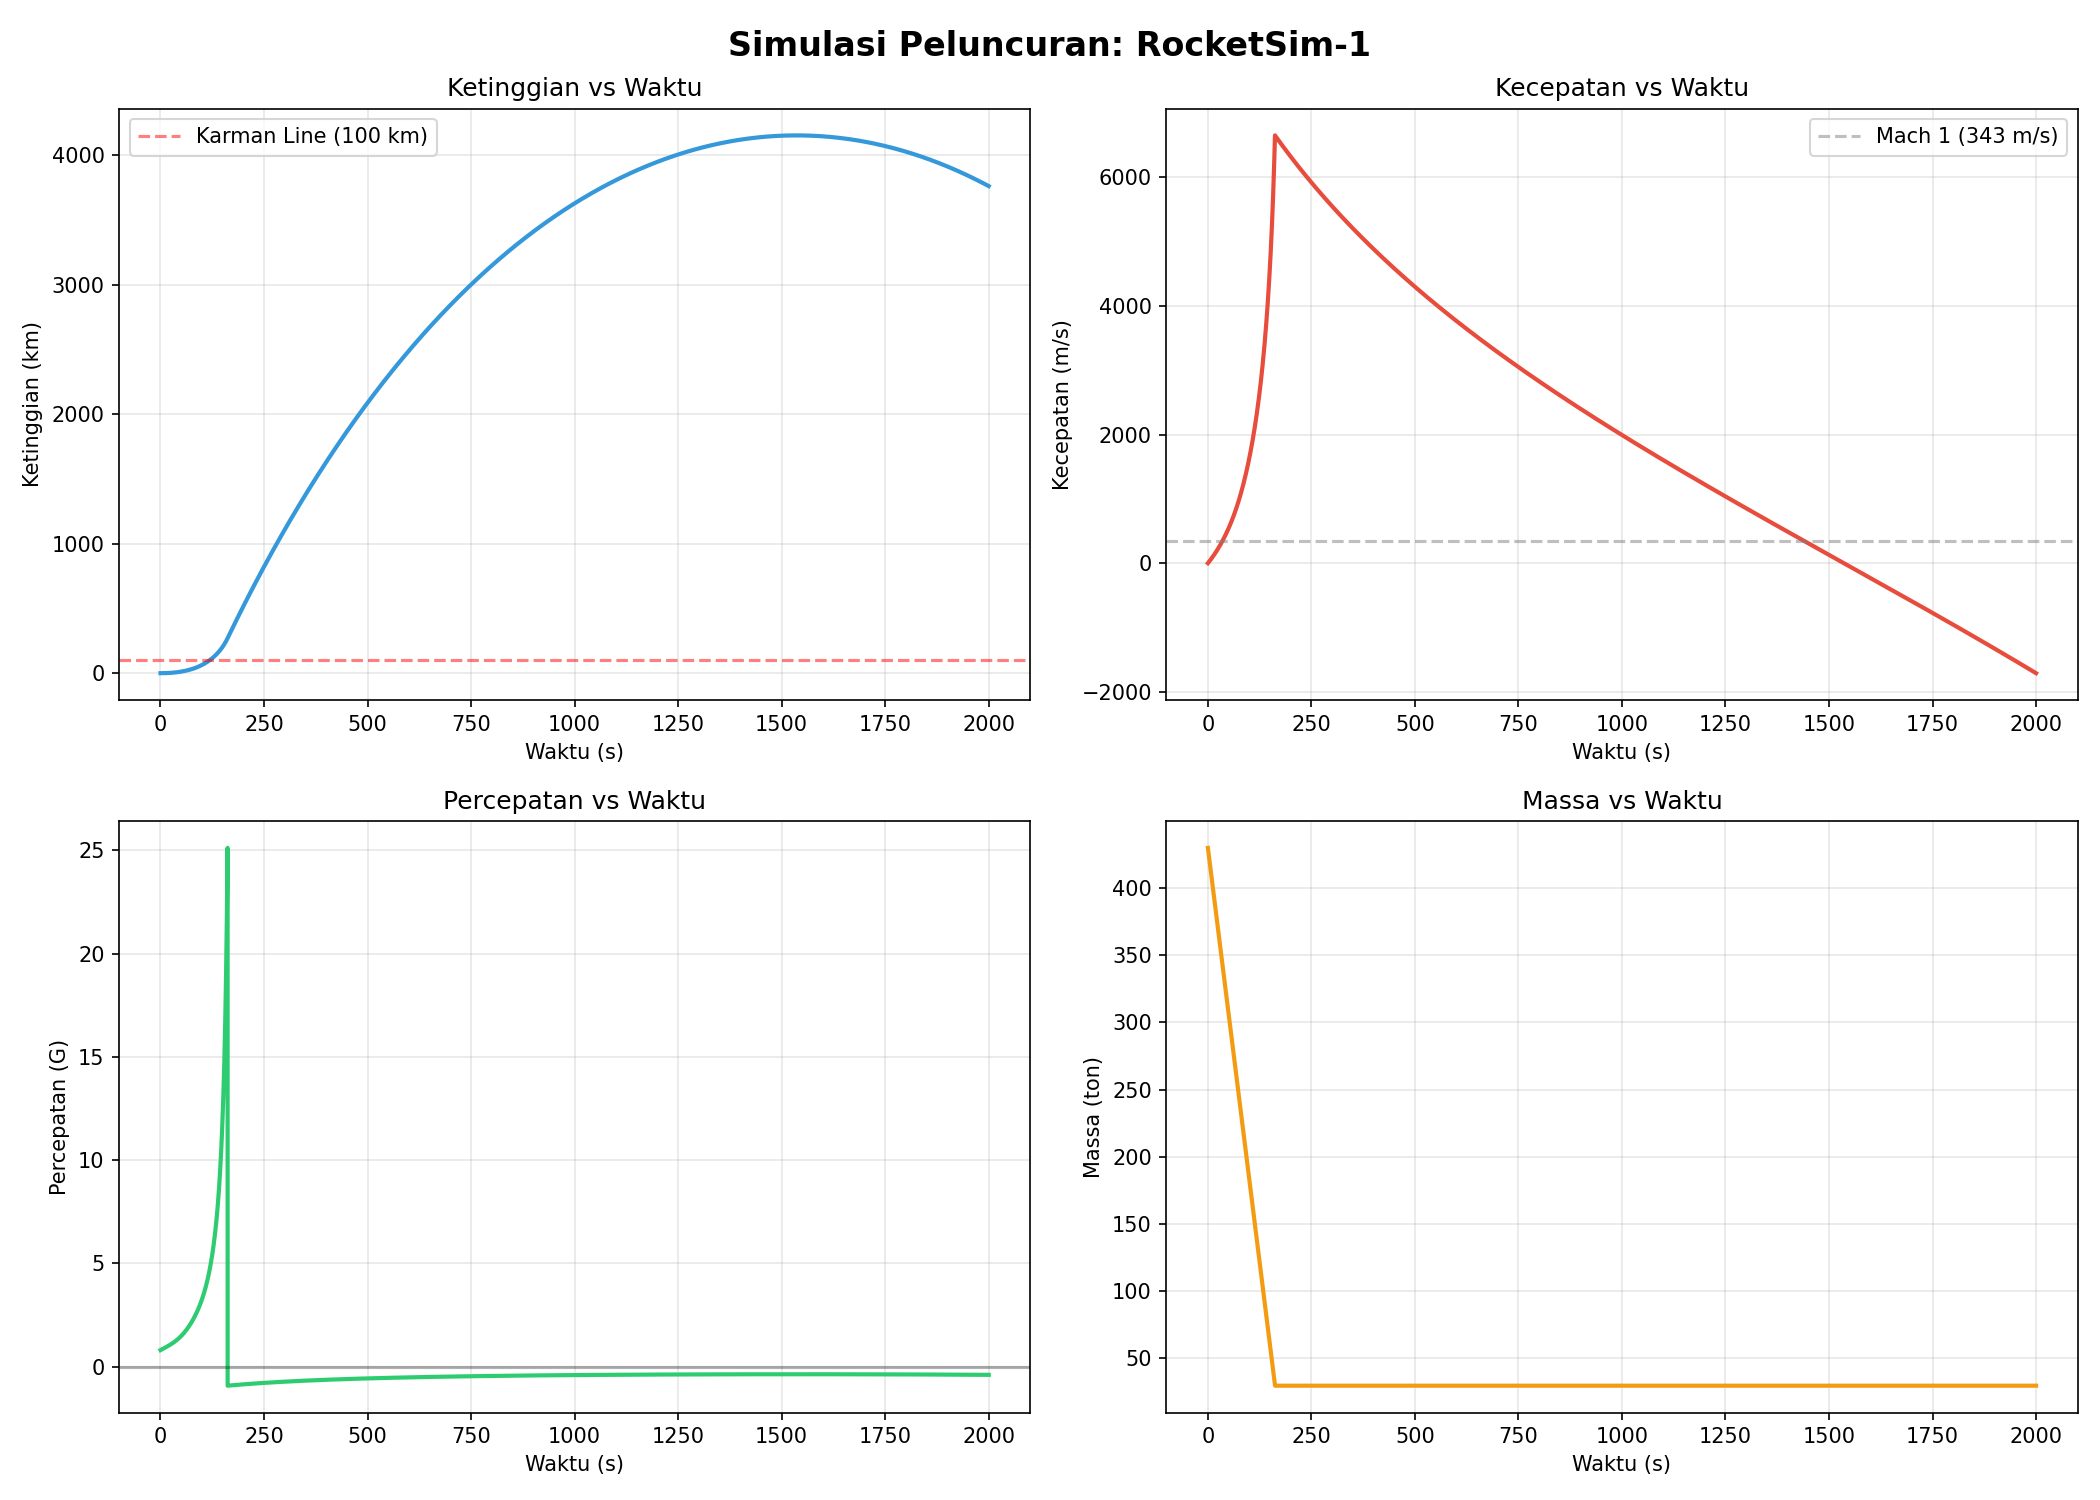
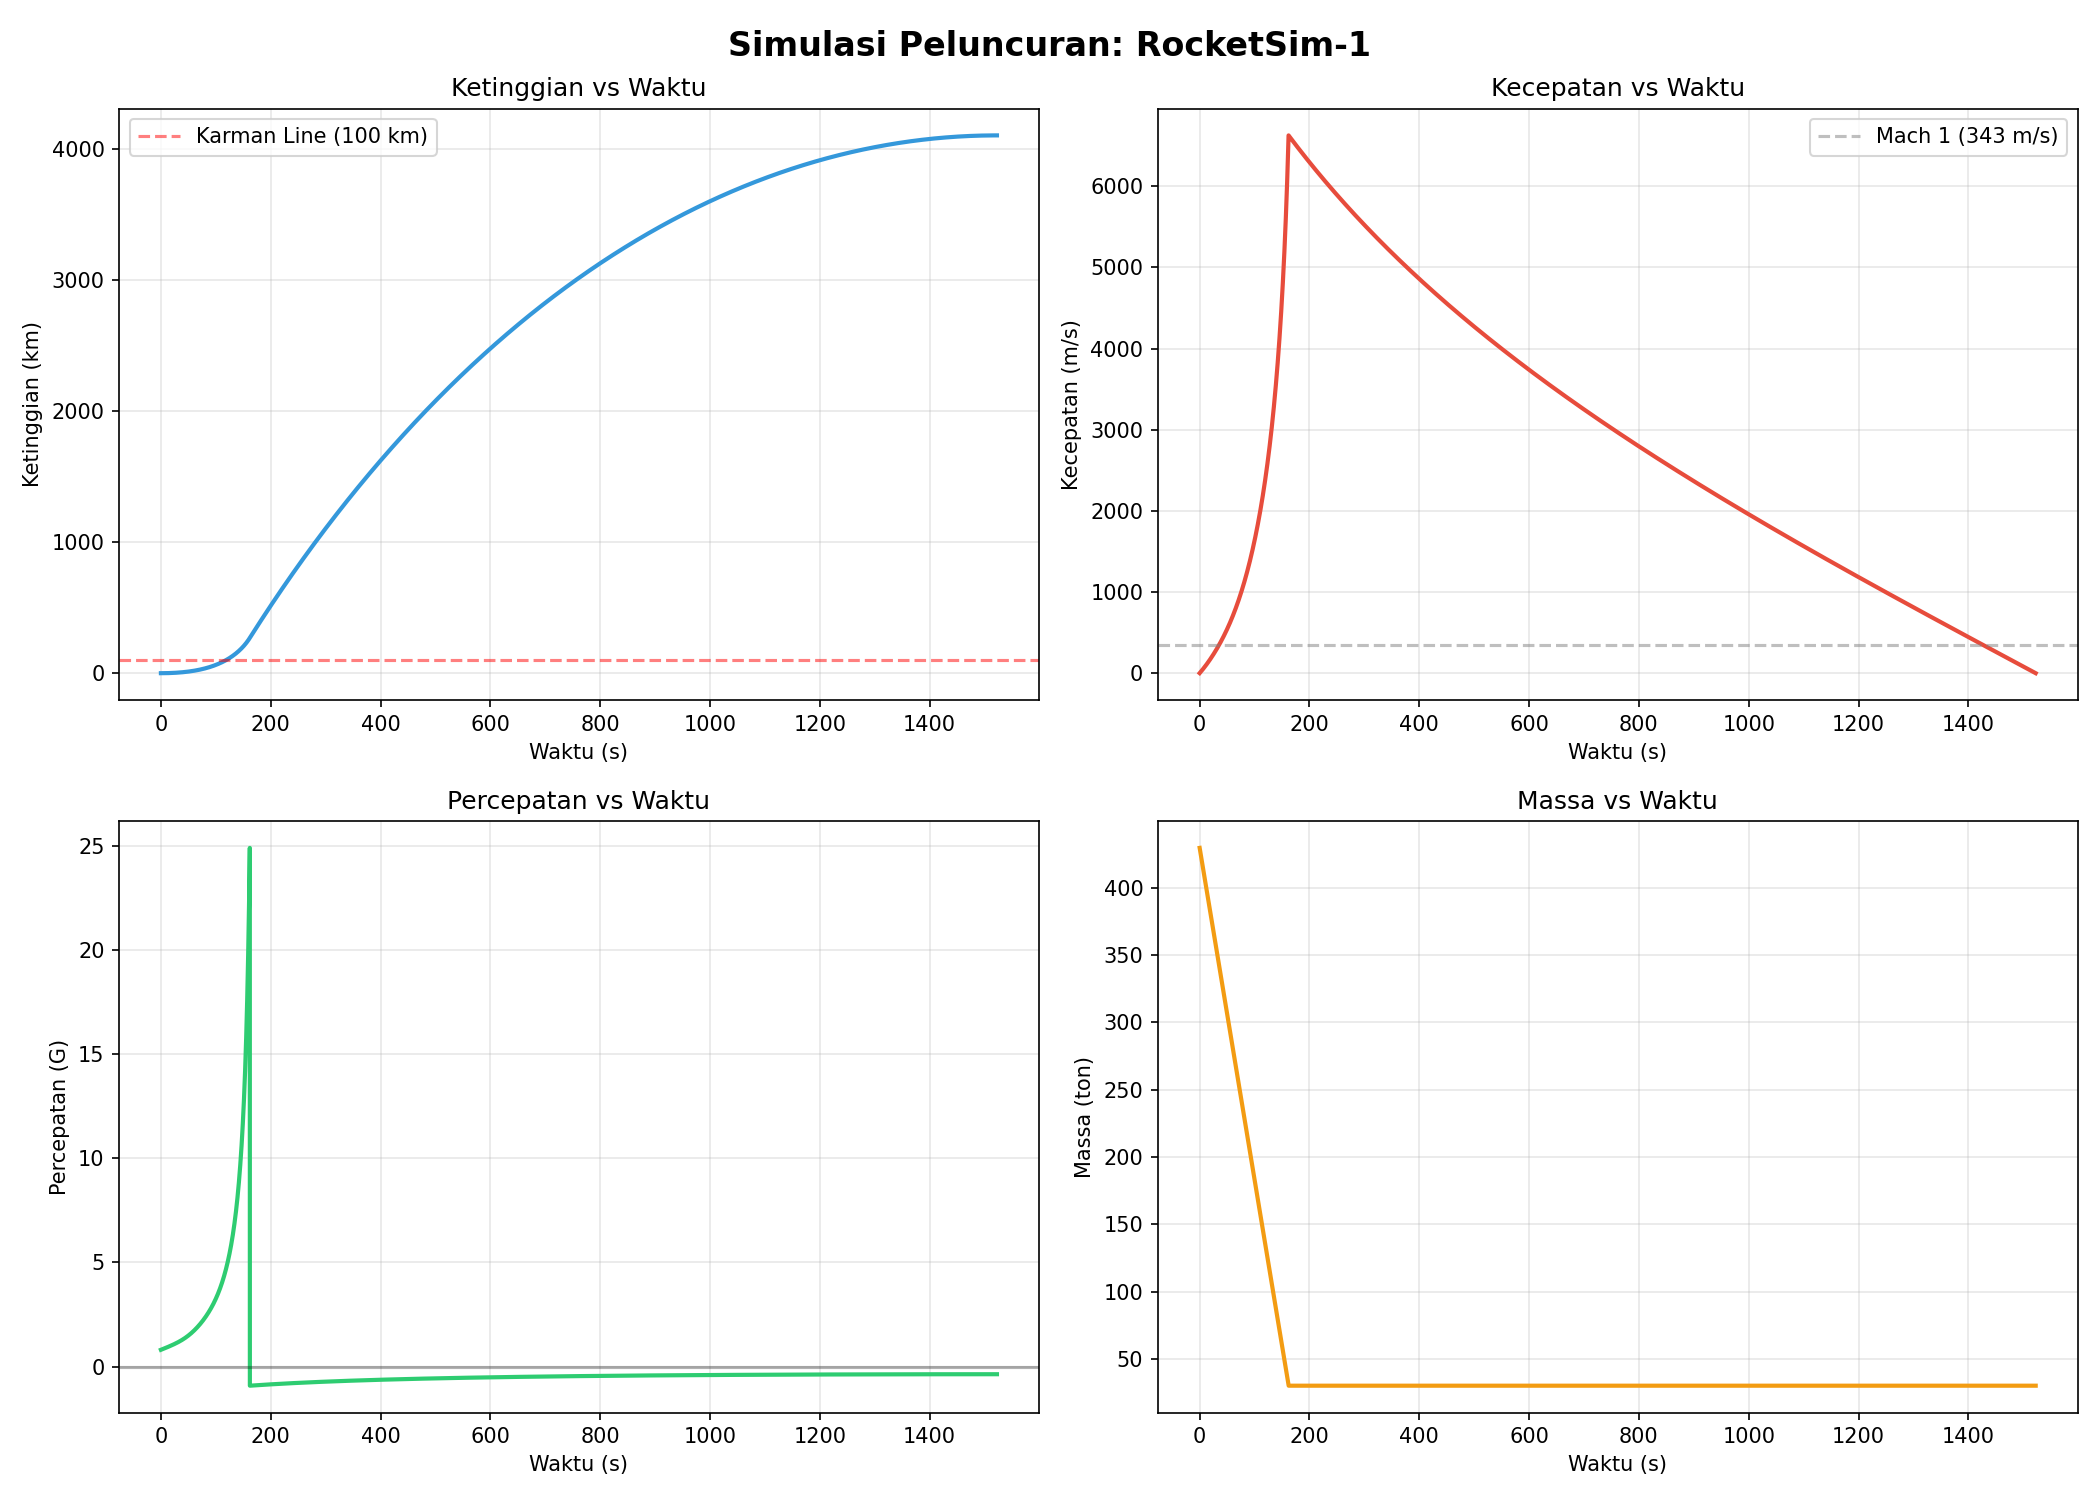
Fix rocket simulation outputs and fuel handling
Save plots beside each script, stop the launch plot at apogee, prevent fuel from dropping below zero, and clarify the vertical-only comparison.

diff --git a/rocket-sim/02_launch_sim.py b/rocket-sim/02_launch_sim.py
@@ -23,6 +23,7 @@ Dimana ρ (rho) = kepadatan udara (berkurang seiring ketinggian)
 """
 
 import math
+from pathlib import Path
 
 # ============================================================
 # KONSTANTA
@@ -135,9 +136,10 @@ def simulasi_peluncuran(dt: float = 0.1):
         gaya_drag = drag(abs(kecepatan), ketinggian, r["Cd"], area)
 
         if mesin_menyala and massa_bb > 0:
-            gaya_thrust = r["thrust"]
-            massa_bb -= burn_rate * dt
-            massa_total -= burn_rate * dt
+            consumed = min(burn_rate * dt, massa_bb)
+            gaya_thrust = r["thrust"] * consumed / (burn_rate * dt)
+            massa_bb -= consumed
+            massa_total -= consumed
             if massa_bb <= 0:
                 massa_bb = 0
                 mesin_menyala = False
@@ -145,8 +147,8 @@ def simulasi_peluncuran(dt: float = 0.1):
             gaya_thrust = 0
 
         berat = massa_total * g
-        drag_arah = gaya_drag if kecepatan < 0 else -gaya_drag
-        gaya_net = gaya_thrust - berat + drag_arah if kecepatan >= 0 else -berat - drag_arah
+        drag_arah = -math.copysign(gaya_drag, kecepatan)
+        gaya_net = gaya_thrust - berat + drag_arah
         percepatan = gaya_net / massa_total
 
         kecepatan += percepatan * dt
@@ -180,22 +182,20 @@ def simulasi_peluncuran(dt: float = 0.1):
             event = "🔥" if mesin_menyala else "coast"
             print(f"  {waktu:>7.1f} {ketinggian/1000:>11.1f}km {kecepatan:>11.0f}m/s {percepatan/G0:>11.1f}G {massa_total:>9,.0f} {event}")
 
-        if kecepatan < 0 and ketinggian < 0:
-            ketinggian = 0
-            break
-
         if not apogee_tercapai and kecepatan < 0 and not mesin_menyala:
             apogee_tercapai = True
             print(f"  {waktu:>7.1f} {ketinggian/1000:>11.1f}km {kecepatan:>11.0f}m/s {percepatan/G0:>11.1f}G {massa_total:>9,.0f} ← APOGEE! 🏔")
+            break
 
-        if waktu > 2000:
+        if waktu > 6000:
+            print("  Simulasi dihentikan pada batas 6000 detik sebelum apogee.")
             break
 
     print(f"\n  📊 Statistik Penerbangan:")
     print(f"     Ketinggian maksimum : {max(data['ketinggian'])/1000:,.1f} km")
     print(f"     Kecepatan maksimum  : {max_kecepatan:,.0f} m/s ({max_kecepatan*3.6:,.0f} km/h, Mach {max_kecepatan/343:.1f})")
     print(f"     Max-Q               : {max_q/1000:,.1f} kPa pada T+{max_q_waktu:.1f}s")
-    print(f"     Durasi penerbangan  : {waktu:,.0f} s ({waktu/60:.1f} menit)")
+    print(f"     Waktu hingga apogee : {waktu:,.0f} s ({waktu/60:.1f} menit)")
 
     if max(data['ketinggian']) >= 100_000:
         print(f"     🌌 Melewati Karman Line (100 km) — selamat, kamu ke luar angkasa!")
@@ -259,7 +259,9 @@ def buat_grafik(data):
     ax4.grid(True, alpha=0.3)
 
     plt.tight_layout()
-    plt.savefig('rocket-sim/02_launch_sim.png', dpi=150)
+    output = Path(__file__).with_suffix('.png')
+    plt.savefig(output, dpi=150)
+    plt.close(fig)
     print(f"\n  📈 Grafik disimpan: rocket-sim/02_launch_sim.png")
 
 
@@ -286,7 +288,7 @@ if __name__ == "__main__":
   3. Drag loss — hambatan udara paling besar di atmosfer bawah
   4. Max-Q = tekanan dinamis maksimum (momen paling stress buat roket)
   5. MECO = Main Engine Cut-Off (bahan bakar habis)
-  6. Setelah MECO, roket 'coast' — naik karena momentum, lalu jatuh
+  6. Setelah MECO, roket 'coast' — simulasi berhenti pada apogee
 
   ➡  Lanjut ke 03_staging.py untuk belajar kenapa roket punya tingkatan!
 """)

diff --git a/rocket-sim/04_falcon9_vs_starship.py b/rocket-sim/04_falcon9_vs_starship.py
@@ -21,6 +21,7 @@ Saturn V:
 """
 
 import math
+from pathlib import Path
 
 # ============================================================
 # KONSTANTA
@@ -241,7 +242,9 @@ def simulasi_peluncuran(nama, data, dt=0.5):
 
     log = {"waktu": [], "ketinggian": [], "kecepatan": []}
 
-    while waktu < 600 and current_stage < len(stages):
+    # Setiap roket punya total waktu pembakaran berbeda; hentikan setelah
+    # stage terakhir habis, bukan pada batas 600 detik yang memotong Saturn V.
+    while current_stage < len(stages):
         g = gravitasi(ketinggian)
         rho = kepadatan_udara(ketinggian)
         gaya_drag = 0.5 * rho * kecepatan ** 2 * cd * area
@@ -453,11 +456,6 @@ def buat_grafik():
     # --- 1. Bar chart: Spesifikasi ---
     ax1 = axes[0][0]
     names_short = ["Falcon 9", "Starship", "Saturn V"]
-    massa = [ROCKETS[n]["stages"][0]["thrust"] / 1e6 +
-             sum(s["thrust"] for s in ROCKETS[n]["stages"][1:]) / 1e6
-             if n != "Starship + Super Heavy" else 74.0
-             for n in ROCKETS.keys()]
-
     thrust_vals = []
     for nama, data in ROCKETS.items():
         thrust_vals.append(data["stages"][0]["thrust"] / 1e6)
@@ -511,15 +509,16 @@ def buat_grafik():
         ax4.plot(log["waktu"], [v/1000 for v in log["kecepatan"]],
                 label=label, color=colors[nama], linewidth=2)
 
-    ax4.axhline(y=7.8, color='gray', linestyle='--', alpha=0.5, label='Orbital velocity')
     ax4.set_xlabel('Waktu (s)')
-    ax4.set_ylabel('Kecepatan (km/s)')
-    ax4.set_title('Simulasi Peluncuran: Kecepatan')
+    ax4.set_ylabel('Kecepatan vertikal (km/s)')
+    ax4.set_title('Simulasi 1D: Kecepatan Vertikal')
     ax4.legend(fontsize=9)
     ax4.grid(True, alpha=0.3)
 
     plt.tight_layout()
-    plt.savefig('rocket-sim/04_falcon9_vs_starship.png', dpi=150)
+    output = Path(__file__).with_suffix('.png')
+    plt.savefig(output, dpi=150)
+    plt.close(fig)
     print(f"\n  📈 Grafik disimpan: rocket-sim/04_falcon9_vs_starship.png")
 
 

diff --git a/rocket-sim/03_staging.py b/rocket-sim/03_staging.py
@@ -23,6 +23,7 @@ Roket terkenal dan staging-nya:
 """
 
 import math
+from pathlib import Path
 
 # ============================================================
 # KONSTANTA
@@ -326,7 +327,9 @@ def buat_grafik(saturn_results, optimal_results):
                     xytext=(0, 10), ha='center', fontsize=9)
 
     plt.tight_layout()
-    plt.savefig('rocket-sim/03_staging.png', dpi=150)
+    output = Path(__file__).with_suffix('.png')
+    plt.savefig(output, dpi=150)
+    plt.close(fig)
     print(f"\n  📈 Grafik disimpan: rocket-sim/03_staging.png")
 
 

diff --git a/rocket-sim/01_tsiolkovsky.py b/rocket-sim/01_tsiolkovsky.py
@@ -25,6 +25,7 @@ untuk membawa bahan bakar itu. 🤯
 """
 
 import math
+from pathlib import Path
 
 # ============================================================
 # KONSTANTA
@@ -197,7 +198,9 @@ def buat_grafik():
     ax.set_ylim(0, 50)
 
     plt.tight_layout()
-    plt.savefig('rocket-sim/01_tsiolkovsky.png', dpi=150)
+    output = Path(__file__).with_suffix('.png')
+    plt.savefig(output, dpi=150)
+    plt.close(fig)
     print(f"\n  📈 Grafik disimpan: rocket-sim/01_tsiolkovsky.png")
 
 

diff --git a/rocket-sim/README.md b/rocket-sim/README.md
@@ -50,6 +50,10 @@ python3 04_falcon9_vs_starship.py
 ```
 
 Setiap script menghasilkan output di terminal + grafik visualisasi (disimpan sebagai file PNG).
+File PNG disimpan di folder `rocket-sim/`, terlepas dari direktori tempat perintah dijalankan.
+Grafik peluncuran menggambarkan gerak vertikal 1D, bukan manuver masuk orbit.
+`02_launch_sim.py` berhenti pada apogee; reentry dan pendaratan belum dimodelkan.
+Versi ini belum membuat animasi bergerak.
 
 ## Referensi Belajar
 
